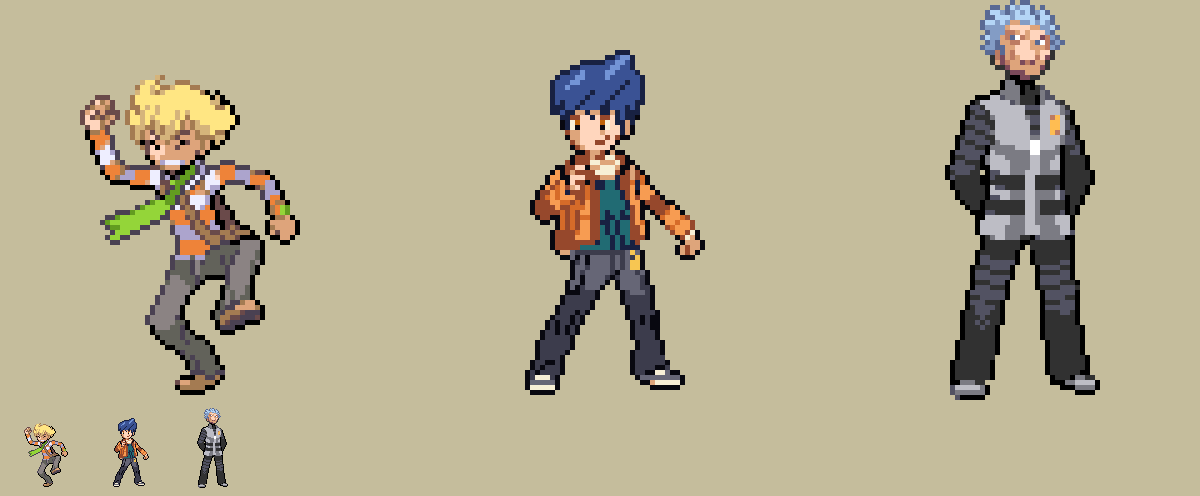
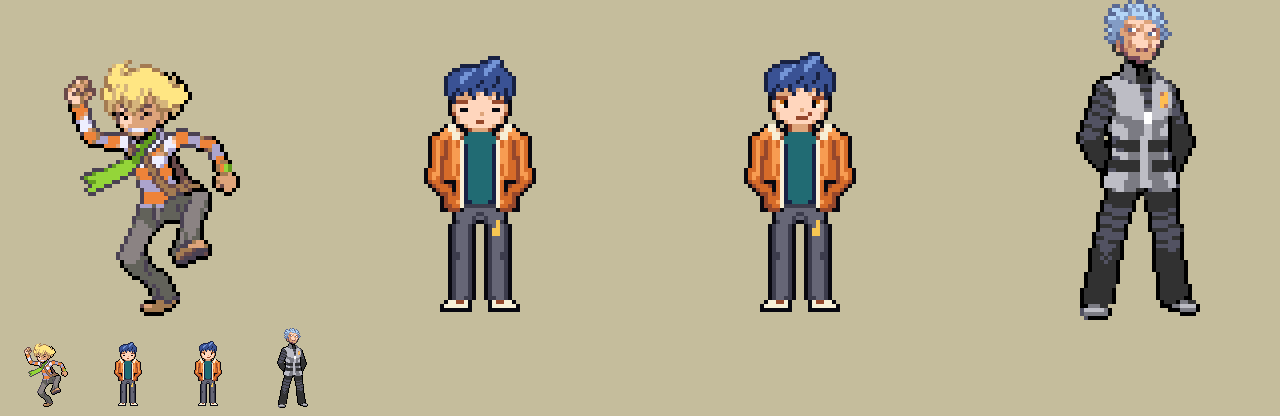
Garius battle sprite: original frontal pose, two intro frames
Claude-Session: https://claude.ai/code/session_01R78qiwB9QFmdVUsfyXJHwi

diff --git a/tools/garius_sprite/garius_battle.py b/tools/garius_sprite/garius_battle.py
@@ -1,15 +1,15 @@
 #!/usr/bin/env python3
 """Garius (the rival): front battle sprite, the pose shown as a battle starts.
 
-In stock Platinum style, built on stock Lucas's battle skeleton
-(res/trainers/classes/player_male/front_scan.png): the same height, stance and open
-jacket, one hand at the lapel. The body is the stock body recoloured region by region;
-the head (hair, face) is redrawn by hand.
+An original pose, drawn by hand and not derived from any stock frame: facing the viewer
+square-on, feet apart, both hands in the pockets of his father's jacket. Stock sprites
+are used only as a size reference (a stock teen such as Lucas is about 65 px tall).
 
-    python3 tools/garius_sprite/garius_battle.py            # write the 80x80 indexed frame
+    python3 tools/garius_sprite/garius_battle.py            # write both 80x80 frames (160x80)
     python3 tools/garius_sprite/garius_battle.py --preview  # also the preview (needs PIL)
 
-Design frame only: not wired into res/trainers/classes/meson.build yet.
+Two frames for the intro animation (bowed with eyes shut, then looking up). Design
+frames only: not wired into res/trainers/classes/meson.build yet.
 """
 
 from __future__ import annotations
@@ -26,11 +26,10 @@ sys.path.insert(0, str(HERE.parent / "arc1_sprites"))
 
 from garius import LEGEND  # noqa: E402
 from garius import PALETTE as OVERWORLD_PALETTE  # noqa: E402
-from integrate_mawile_overworld_sprite import read_indexed_png, write_indexed_png  # noqa: E402
+from integrate_mawile_overworld_sprite import write_indexed_png  # noqa: E402
 from pixelkit import parse_grid  # noqa: E402
 
 SIZE = 80
-BASE = REPO_ROOT / "res/trainers/classes/player_male/front_scan.png"
 FRAME = REPO_ROOT / "res/trainers/classes/garius/front_design.png"
 PREVIEW = REPO_ROOT / "docs/story/art/garius_battle_design.png"
 
@@ -41,104 +40,121 @@ PALETTE[5] = (150, 72, 44)   # S rust: skin shadow and jacket dark
 PALETTE[8] = (60, 60, 76)    # C charcoal dark
 PALETTE[13] = (102, 102, 118)  # c charcoal mid
 
-L = LEGEND
-K, H, S, s, a, o, p, w, t, c, g = (L[k] for k in "KHSsaopwtcg")
-O = S
-C = 8
+LEGEND = dict(LEGEND, D=8)
+del LEGEND["O"]
 
-# Stock Lucas indexes: 1 jacket light, 5 jacket mid, 4 dark (jacket shadow, trousers, hair),
-# 7 trousers mid, 2/3 red (shirt, cuffs), f/e/8/6 white-to-grey (scarf, bag, shoes),
-# a/9 skin dark, b skin mid, c skin light, d black.
-SKIN = {0xA: S, 0x9: S, 0xB: s, 0xC: a, 0xD: K}
+LEG = "|.......KDcccDK..KDcccDK.......|"
+KNEE = "|.......KDDccDK..KDccDDK.......|"
 
+FRONT_ORIGIN = (25, 13)
+FRONT = """
+|.................HHH..........|
+|...............HHhiiH.........|
+|..........HHHHHhhiihH.........|
+|........HHhhhihhiihhhH........|
+|.......HhhhiihhhihhhhhH.......|
+|......HhhhiihhhhhhhHhhhH......|
+|......HhhhihhhhHhhhHhhhH......|
+|......HhhhhhhhHhhhHhhhhH......|
+|......HhhHhhHhhhHhhhhHhH......|
+|......HhHhHsHhsaHhsHhHhH......|
+|.......HHssssHaaasaHsHH.......|
+|.......KHSSSaaaaaaSSSHK.......|
+|.......KsaeKaaaaaaKeasK.......|
+|.......KsawKaaaaaaKwasK.......|
+|.......KSaaaaaasaaaaaSK.......|
+|........KsaaaaaaaSaasK........|
+|........KsaaaaSSSaaasK........|
+|.........KKsaaaaaasKK.........|
+|......KwwK.KSssssSK.KwwK......|
+|....KKpwwsKKSssssSKKswwpKK....|
+|..KKopppwwsKttttttKswwpppoKK..|
+|.KoopppowwSttttttttSwwopppooK.|
+|.KoppoSopowttttttttwopoSoppoK.|
+|.KoppoSopowHttttttHwopoSoppoK.|
+|.KoppoSoppwHttttttHwppoSoppoK.|
+|.KopooSoppwHttttttHwppoSoopoK.|
+|.KopoSSoppwHttttttHwppoSSopoK.|
+|.KopoSooppwHttttttHwppooSopoK.|
+|.KopoSoopowHttttttHwopooSopoK.|
+|KoopoSoopowHttttttHwopooSopooK|
+|KoppoSoopowHttttttHwopooSoppoK|
+|KopooSooopwHttttttHwpoooSoopoK|
+|KSoooSKKKowHttttttHwoKKKSoooSK|
+|.KSooooSKowHttttttHwoKSooooSK.|
+|..KSSoooKowHttttttHwoKoooSSK..|
+|...KKSSoSowHttttttHwoSoSSKK...|
+|.....KSooowHttttttHwoooSK.....|
+|.....KSoopwHHttttHHwpooSK.....|
+|.....KSSoowDDDDDDDDwooSSK.....|
+|.....KKSSSKccccccccKSSSKK.....|
+|........KcccccDDcccccK........|
+|........KccccDccDccccK........|
+|........KDcccDKKDcccDK........|
+""" + "\n".join([LEG] * 7 + [KNEE] * 2 + [LEG] * 9) + """
+|.......KDccDDK..KDDccDK.......|
+|......KwwSSwK....KwSSwwK......|
+|.....KwwwwwwK....KwwwwwwK.....|
+|.....KKKKKKKK....KKKKKKKK.....|
+"""
 
-def body_pixel(v: int, x: int, y: int) -> int:
-    if v in SKIN and not (v == 0xA and 49 <= y <= 50 and x < 50):
-        return SKIN[v]
-    if y >= 50:  # trousers and shoes
-        return {7: c, 4: C, 6: c, 8: w, 0xF: w, 0xE: s, 0xA: C}.get(v, C)
-    bag = x <= 35 and y >= 38
-    if v == 1:
-        return p
-    if v == 5:
-        return o
-    if v == 4:
-        return O
-    if v == 2:  # red: cuffs by the hand, shirt elsewhere
-        return w if x >= 52 else H
-    if v == 3:
-        return t
-    if v == 0xA:
-        return H  # shirt hem
-    if bag:  # the bag becomes the long tail of the oversized jacket
-        return {8: o, 6: O, 0xE: O, 0xF: p}.get(v, O)
-    if y <= 35:  # scarf at the neck -> popped cream collar
-        return {0xF: w, 8: w, 0xE: s, 6: s}.get(v, w)
-    return {0xF: t, 0xE: H, 8: t, 6: H}.get(v, t)  # scarf on the chest -> teal shirt
-
-
-# Hand-drawn head. Coordinates are absolute in the 80x80 frame.
-HAIR = (28, 10, """
-|...............HHH....|
-|.............HHhiiH...|
-|........HHHHHhhiihH...|
-|......HHhhhhhhiihhH...|
-|....HHhhihhhhiihhhhH..|
-|...HhhhiihhhhihhhhhhH.|
-|..HhhhiihhhhhhhhhHhhH.|
-|..HhhihhhhhhhhhhHhhhH.|
-|..HhhhhhhhHhhhhHhhhhH.|
-|..HhhhhhhHhhhhHhhhhhH.|
-|..HhHhhhHhhhhHhhhhhHH.|
-|..HHHhhHhhhhHHhhhHhH..|
-|..HHhHHssHssHHsHhHHH..|
-""")
-
-FACE = (32, 23, """
-|HHSSaaHaSSaHhHHK|
-|KHweaaaaewaHHsH_|
-|KHwKaaaaKwaaHsK_|
-|_SssaaaasaaaHsK_|
-|_KssaaaaaSaSKK__|
-|__SsaaaSSaaK____|
-|__KSsaaaaaK_____|
-""")
-
-WATCH = [(46, 50), (47, 51), (47, 52), (46, 52), (46, 53), (47, 53)]
+# His father's pocket watch: a chain from under the jacket hem, the watch on the thigh.
+WATCH = [(19, 42), (19, 43), (18, 44), (19, 44), (18, 45), (19, 45)]
 
 
-def paint(frame: list[int], part) -> None:
-    ox, oy, text = part
-    for gy, row in enumerate(parse_grid(text)):
+HEAD_ROWS = 18  # the first rows of FRONT, down to the chin
+
+# Frame 1 of the intro: head bowed one pixel, eyes shut, mouth flat. Frame 2 is FRONT
+# itself: he looks up at you and the smirk appears. Rows are indexes into FRONT.
+BOWED = {
+    12: "|.......KsaaaaaaaaaaaasK.......|",
+    13: "|.......KsaKKaaaaaaKKasK.......|",
+    15: "|........KsaaaaaaaaaasK........|",
+    16: "|........KsaaaaSSaaaasK........|",
+}
+TORSO_ROWS = 22  # collar to jacket hem, after the head
+
+
+def _draw(frame: list[int], rows: list[str], oy: int) -> None:
+    ox = FRONT_ORIGIN[0]
+    for gy, row in enumerate(rows):
         for gx, ch in enumerate(row):
-            if ch in ". ":
-                continue
-            frame[(oy + gy) * SIZE + ox + gx] = 0 if ch == "_" else LEGEND[ch]
+            if ch != ".":
+                frame[(oy + gy) * SIZE + ox + gx] = LEGEND[ch]
 
 
-def front_frame() -> list[int]:
-    width, _height, pixels, _pal = read_indexed_png(BASE)
-    frame = [0] * (SIZE * SIZE)
-    for y in range(30, SIZE):  # everything below the chin comes from the stock body
-        for x in range(SIZE):
-            v = pixels[y * width + x]
-            if v:
-                frame[y * SIZE + x] = body_pixel(v, x, y)
-    paint(frame, HAIR)
-    paint(frame, FACE)
-    for x, y in WATCH:
-        frame[y * SIZE + x] = g
-    return frame
+def front_frames() -> list[list[int]]:
+    """[frame 1 (bowed, eyes shut), frame 2 (looking up, smirking)]."""
+    ox, oy = FRONT_ORIGIN
+    grid = parse_grid(FRONT)
+    # Slim each arm by one column so the shoulders suit the head (drawn 30 wide, used 28).
+    for n in range(HEAD_ROWS, HEAD_ROWS + TORSO_ROWS):
+        row = grid[n]
+        grid[n] = "." + row[:4] + row[5:25] + row[26:] + "."
+    assert oy + len(grid) <= SIZE - 2, len(grid)
+    frames = []
+    for bowed in (True, False):
+        frame = [0] * (SIZE * SIZE)
+        _draw(frame, grid[HEAD_ROWS:], oy + HEAD_ROWS)
+        for gx, gy in WATCH:
+            frame[(oy + gy) * SIZE + ox + gx] = LEGEND["g"]
+        head = list(grid[:HEAD_ROWS])
+        if bowed:
+            for n, row in BOWED.items():
+                head[n] = parse_grid(row)[0]
+        _draw(frame, head, oy + (1 if bowed else 0))
+        frames.append(frame)
+    return frames
 
 
-def preview(frame: list[int], scale: int = 5) -> None:
+def preview(frames: list[list[int]], scale: int = 4) -> None:
     from PIL import Image
 
     bg = (197, 189, 156)
-    strip = Image.new("RGB", (SIZE * 3, SIZE), bg)
-    for n, name in enumerate(("rival", None, "galactic_boss")):
-        if name is None:
-            for i, v in enumerate(frame):
+    strip = Image.new("RGB", (SIZE * 4, SIZE), bg)
+    for n, name in enumerate(("rival", 0, 1, "galactic_boss")):
+        if isinstance(name, int):
+            for i, v in enumerate(frames[name]):
                 if v:
                     strip.putpixel((n * SIZE + i % SIZE, i // SIZE), PALETTE[v])
             continue
@@ -161,12 +177,16 @@ def main() -> int:
     ap = argparse.ArgumentParser()
     ap.add_argument("--preview", action="store_true")
     args = ap.parse_args()
-    frame = front_frame()
+    frames = front_frames()
+    sheet = [0] * (SIZE * 2 * SIZE)  # both frames side by side, like a stock front_scan.png
+    for n, frame in enumerate(frames):
+        for i, v in enumerate(frame):
+            sheet[(i // SIZE) * SIZE * 2 + n * SIZE + i % SIZE] = v
     snapped = [tuple(((ch >> 3) << 3) | (ch >> 5) for ch in rgb) for rgb in PALETTE]
     FRAME.parent.mkdir(parents=True, exist_ok=True)
-    write_indexed_png(FRAME, SIZE, SIZE, frame, snapped)
+    write_indexed_png(FRAME, SIZE * 2, SIZE, sheet, snapped)
     if args.preview:
-        preview(frame)
+        preview(frames)
     return 0
 
 

diff --git a/docs/story/art/garius.md b/docs/story/art/garius.md
@@ -19,7 +19,8 @@ Style: stock Platinum. The key frame is drawn on stock Barry's skeleton (same he
 the preview is a line-up with stock Barry, Rowan and Cyrus.
 Status: front-facing overworld key frame only; not in the build yet.
 
-Battle front sprite (shown as a battle starts): `tools/garius_sprite/garius_battle.py`, built on stock Lucas's battle
-skeleton (same height, stance and open jacket, one hand at the lapel) with the head redrawn. Preview:
-`garius_battle_design.png` (stock Barry, Garius, stock Cyrus). Frame: `res/trainers/classes/garius/front_design.png`.
-Status: single 80x80 design frame; not a trainer class in the build yet.
+Battle front sprite (shown as a battle starts): `tools/garius_sprite/garius_battle.py`. An original pose drawn by hand,
+not derived from a stock frame: facing the viewer, feet apart, both hands in the jacket pockets. Two frames for the
+intro animation: bowed with eyes shut, then looking up with the smirk. Preview: `garius_battle_design.png`
+(stock Barry, frame 1, frame 2, stock Cyrus). Frames: `res/trainers/classes/garius/front_design.png` (160x80).
+Status: design frames; not a trainer class in the build yet.
